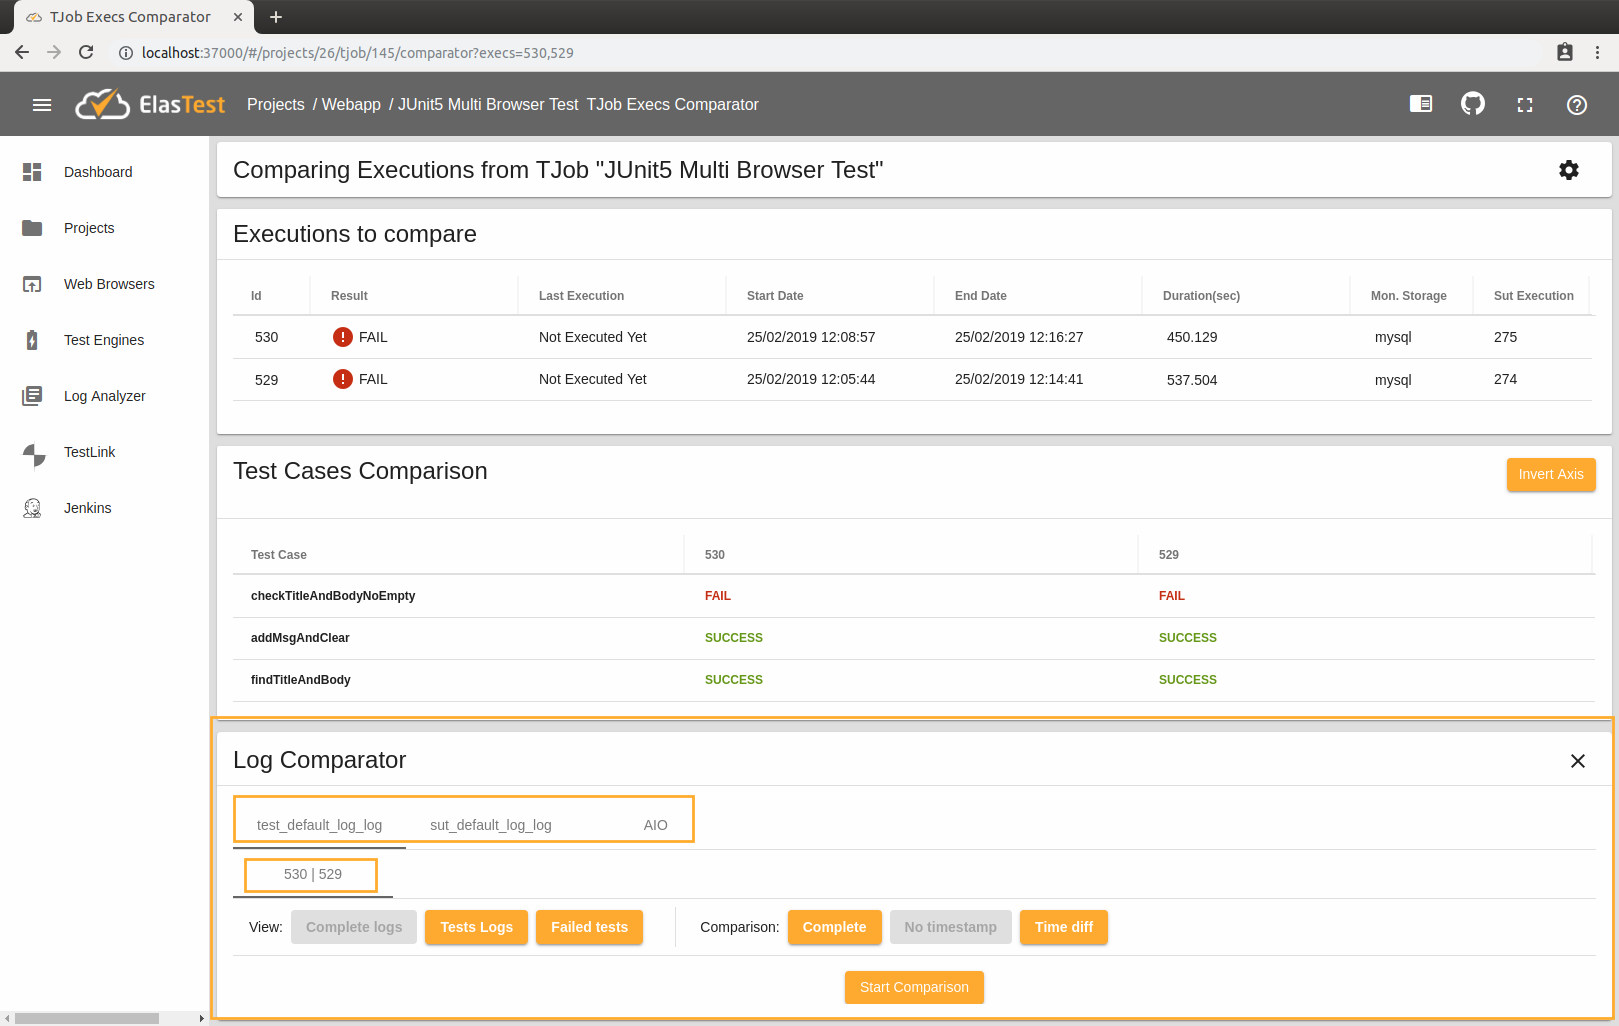
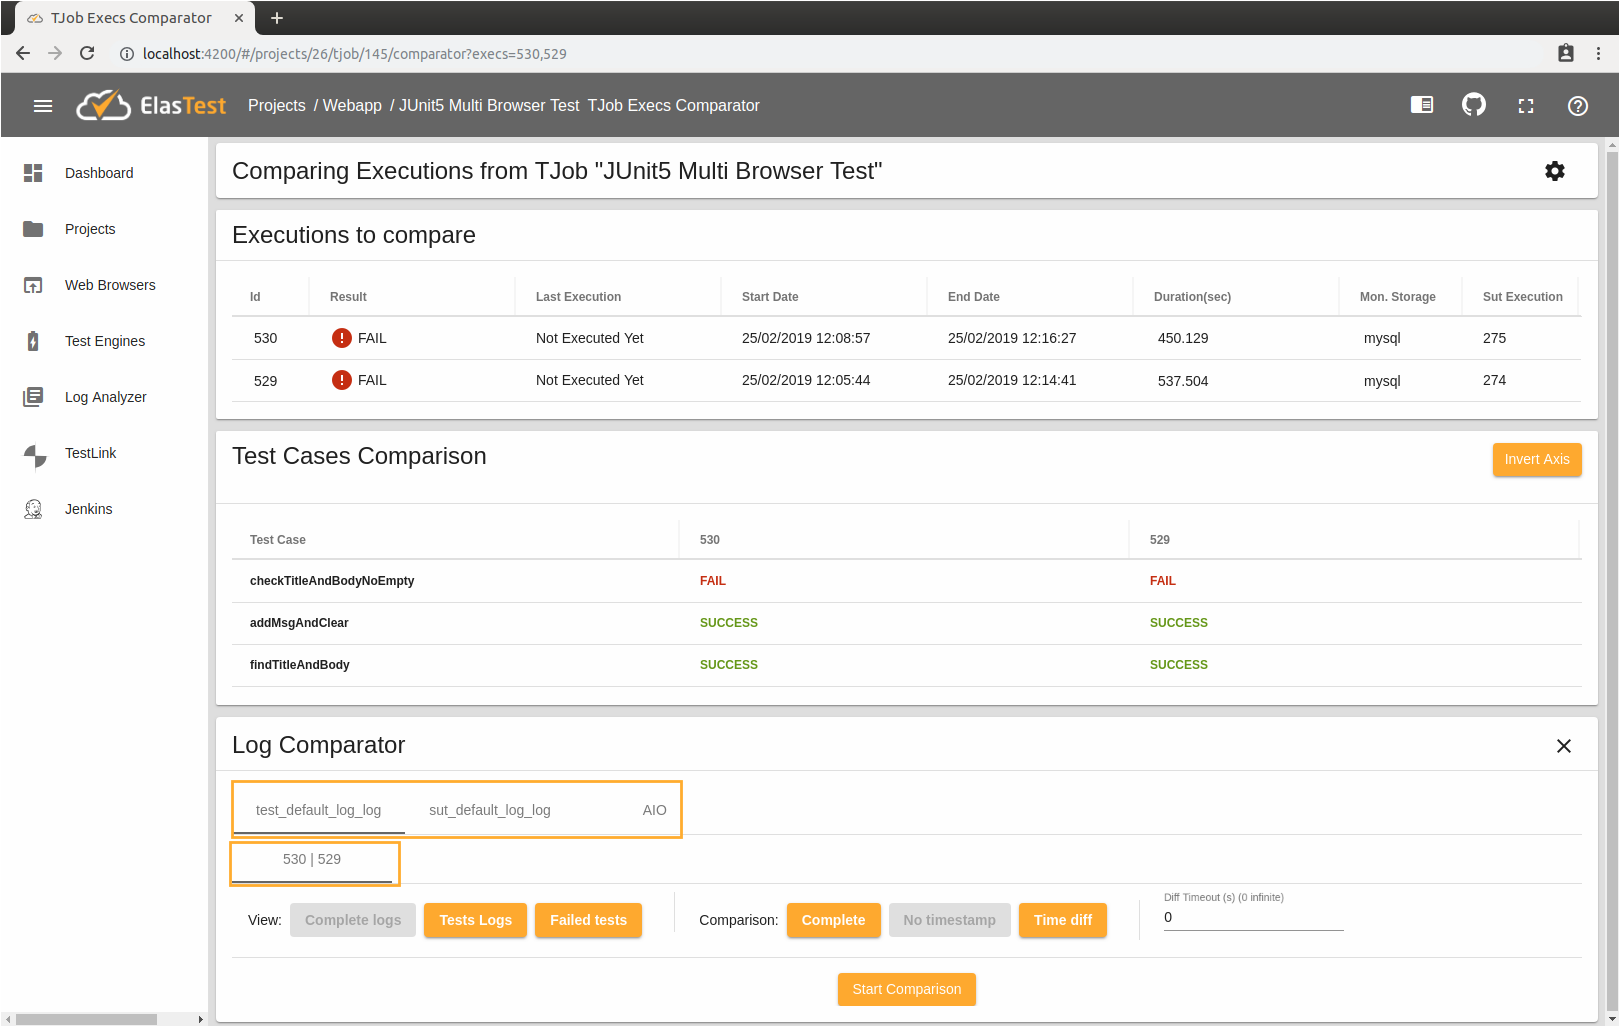
Deploy from Travis CI

diff --git a/docs/releases/index.html b/docs/releases/index.html
@@ -493,6 +493,42 @@ section-icon: mdi mdi-content-copy
 
 <!-- ************************* -->
 
+<!-- ********* 1.2.0 ********* -->
+
+<!-- ************************* -->
+
+<h3 id="1.2.0" class="small-subtitle">1.2.0</h3>
+
+<h4 class="smaller-subtitle">01/03/2019</h4>
+
+<h5 class="smaller-subtitle">Features & Improvements</h5>
+
+<ul>
+<li><a target="_blank" href="/docs/executions-comparator/#log-comparator">Log Comparator:</a><ul>
+<li>Now you can set the <strong><code>timeout</code></strong> to calculate the diff. Default: 0 (infinite)</li>
+<li>The <strong><code>line numbering</code></strong> for the <strong>Tests Logs mode</strong> starts at <strong>1 for each test case</strong> and the line number is <strong>not shown in the name</strong> of the test case.</li>
+<li>Now the <strong>Complete</strong> mode shows the complete message <strong>as it is saved</strong> (sometimes it has timestamp and sometimes not) and the <strong>Non-timestamp</strong> mode <strong><code>removes</code></strong> it from messages that contain it.</li>
+</ul>
+</li>
+<li><a target="_blank" href="/docs/testlink">TestLink:</a><ul>
+<li>Added a button to the main table that <strong><code>removes</code></strong> all synchronized data from elastest and <strong><code>resynchronizes</code></strong> it.</li>
+<li>TestLink now allows you to <strong><code>select a platform</code></strong> when running a Test Plan.</li>
+<li><strong><code>General improvements</code></strong> in stability and styles.</li>
+</ul>
+</li>
+</ul>
+<h5 class="smaller-subtitle">Bug Fixes</h5>
+
+<ul>
+<li><a target="_blank" href="/docs/testlink">TestLink:</a><ul>
+<li>Test cases are now executed <strong><code>sorted by id</code></strong> during execution and not randomly.</li>
+<li>Fixed the bug that, if a test case was associated with <strong>more than one test plan</strong>, <strong><code>only appeared</code></strong> in the Test Plan to which it had been <strong>associated recently</strong>.</li>
+<li>Now the <strong>url</strong> of an <strong>external sut</strong> <strong><code>opens automatically</code></strong> in the browser during execution.</li>
+</ul>
+</li>
+</ul>
+<!-- ************************* -->
+
 <!-- ********* 1.1.0 ********* -->
 
 <!-- ************************* -->

diff --git a/docs/testlink/index.html b/docs/testlink/index.html
@@ -546,13 +546,14 @@ section-icon: mdi mdi-content-copy
 <p>On the other hand, you can run the test plan clicking the "Execute Test Plan" button located on the top right. Immediately after clicking on the button, a modal will be displayed in which you can select the next configuration:</p>
 <ul>
 <li><strong>Select Build</strong> to run the test.</li>
-<li><strong>Select Browser and it's version</strong></li>
-<li><strong>Configure a hosts list</strong> to put them in the browser container <strong>/etc/hosts</strong>.</li>
-</ul>
+<li><strong>Select Browser and it's version</strong>.</li>
+<li><strong>Select a Platform</strong>.</li>
+<li><strong>Configure a hosts list</strong> to put them in the browser container <strong>/etc/hosts</strong>.
+<p></p>
 <div class="docs-gallery inline-block">
     <a data-fancybox="gallery-4" href="/docs/testlink/images/execute_plan_modal.png"><img class="img-responsive img-wellcome" src="/docs/testlink/images/execute_plan_modal.png"/></a>
-</div>
-
+</div></li>
+</ul>
 <p>Once the configuration has been selected and the <em>Run test plan button</em> has been pressed, you must wait a few seconds until the browser loads. After that, you can see the Test Plan information on the left and a web browser on the right. On the bottom, you will can see all the logs of your test.</p>
 <div class="docs-gallery inline-block">
     <a data-fancybox="gallery-4" href="/docs/testlink/images/testplan_execute.png"><img class="img-responsive img-wellcome" src="/docs/testlink/images/testplan_execute.png"/></a>

diff --git a/docs/executions-comparator/index.html b/docs/executions-comparator/index.html
@@ -539,14 +539,14 @@ section-icon: mdi mdi-content-copy
 <p>There are several possible filters that are divided into two categories:</p>
 <ul>
 <li><strong><code>View</code></strong>:<ul>
-<li><strong>Complete logs</strong>: compare all available logs.</li>
+<li><strong>Complete logs</strong>: compare all available logs. <em>(Default)</em></li>
 <li><strong>Test Logs</strong>: compare only the logs of the test cases.</li>
 <li><strong>Failed Tests</strong>: compare only the logs of the failed test cases.</li>
 </ul>
 </li>
 <li><strong><code>Comparison</code></strong>:<ul>
-<li><strong>Complete</strong>: includes the timestamp in the logs comparison.</li>
-<li><strong>No timestamp</strong>: only includes the message.</li>
+<li><strong>Complete</strong>: displays the complete message as it is saved.</li>
+<li><strong>No timestamp</strong>: if the message contains timestamp, removes it. <em>(Default)</em></li>
 <li><strong>Time diff</strong>: includes the time diff between traces in the logs comparison.</li>
 </ul>
 </li>
